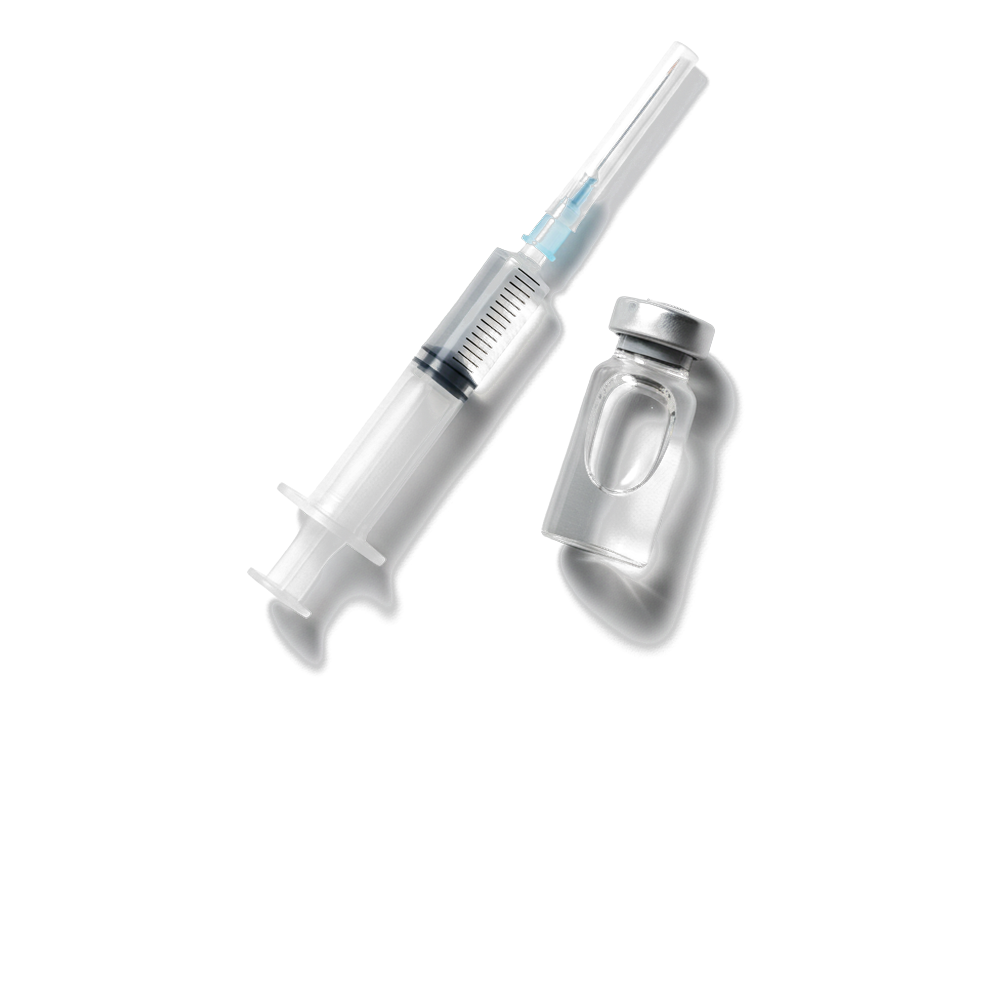
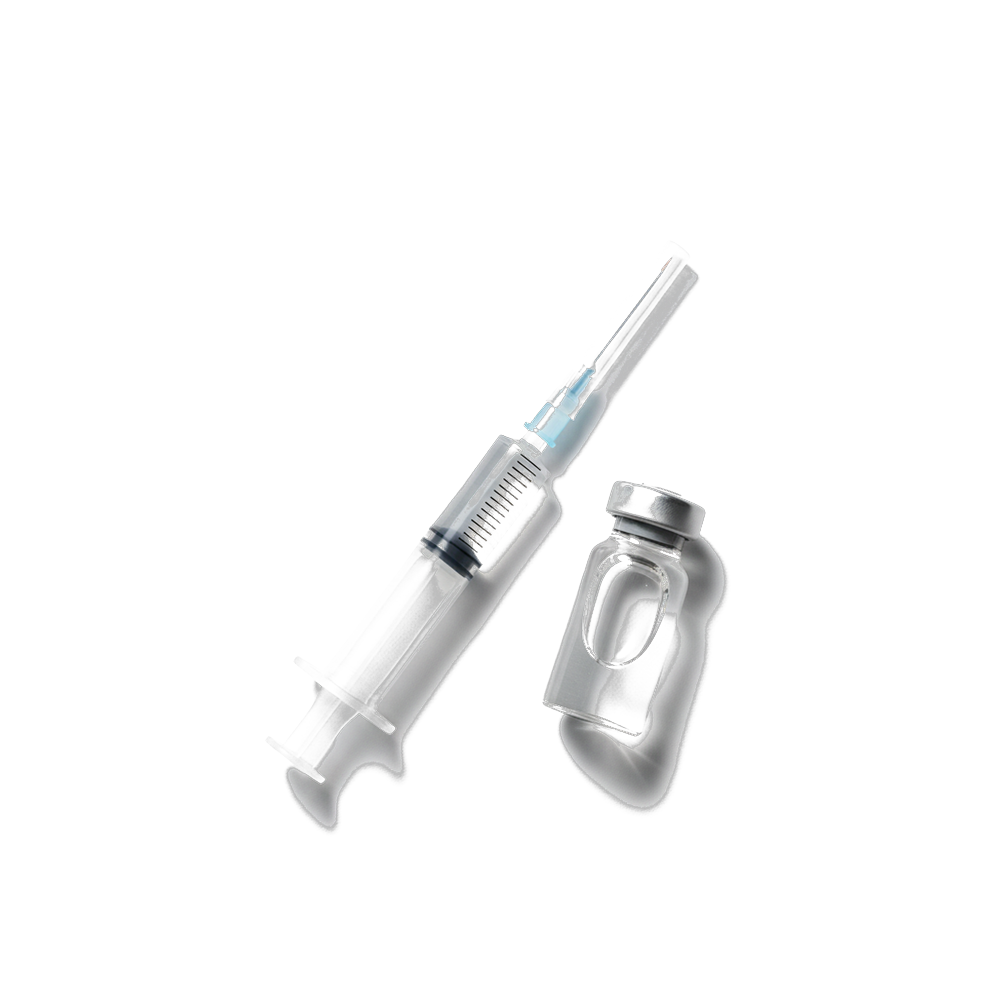
Table polish: original image geometry (16% bottom margin, aligned baselines), bigger sling+surgery images, 'Even Surgery' -> 'Surgery' in table only

Changed region(s): [[0.248, 0.062, 0.744, 0.837]]

diff --git a/index.html b/index.html
@@ -14937,7 +14937,7 @@ html body #nv-dr-intro .nv-dr-collagen-band .nv-dr-inline-figure, html body #nv-
 @media(max-width:768px){#nv-comparison-v3{padding:36px 12px 44px;overflow:hidden}.nv3-headline{font-size:24px;padding:0 8px}.nv3-sub{font-size:14px;margin-bottom:22px;padding:0 8px}.nv3-table-wrap{display:none}.nv3-mobile-compare{display:block;width:100%;max-width:430px;margin:0 auto}.nv3m-card{background:#fff;border:1px solid #d7d7d7;border-radius:8px;margin:0 0 12px;overflow:hidden}.nv3m-title{padding:12px 14px;background:#f7f5f2;border-bottom:1px solid #d7d7d7;font-size:14px;font-weight:800;line-height:1.2;color:#17222e}.nv3m-option{display:grid;grid-template-columns:100px 26px 1fr;align-items:center;gap:8px;padding:11px 12px;border-bottom:1px solid #e1e1e1}.nv3m-option:last-child{border-bottom:0}.nv3m-option-primary{background:#EAF6FD}.nv3m-brand{font-size:11px;font-weight:800;line-height:1.1;color:#17222e}.nv3m-text{font-size:12px;font-weight:700;line-height:1.18;color:#28343a;overflow-wrap:anywhere}.nv3m-mark{width:20px;height:20px;min-width:20px;border-radius:999px;display:inline-flex;align-items:center;justify-content:center;color:#fff;font-size:13px;font-weight:900;line-height:1}.nv3m-ok{background:#052f55}.nv3m-bad{background:#ef4444}}.nv3-mobile-slider{display:none;}
 @media(max-width:768px){#nv-comparison-v3{padding:32px 0 42px;overflow:hidden}.nv3-mobile-title-product{display:block}.nv3-headline{font-size:25px;line-height:1.18;padding:0 18px;margin:0 auto 8px}.nv3-sub{font-size:14px;line-height:1.35;margin:0 auto 18px;padding:0 22px}.nv3-table-wrap,.nv3-mobile-compare{display:none!important}.nv3-mobile-slider{display:block;width:100%;margin:0;color:#17222e;font-family:inherit}.nv3ms-controls{display:flex;align-items:center;justify-content:center;gap:16px;margin:0 auto 16px}.nv3ms-arrow{width:42px;height:42px;border:0;border-radius:999px;background:#fff;color:#17222e;box-shadow:0 2px 10px rgba(0,0,0,.16);font-size:26px;font-weight:900;line-height:1;display:flex;align-items:center;justify-content:center;padding:0;cursor:pointer}.nv3ms-progress{position:relative;width:200px;max-width:48vw;height:7px;border-radius:99px;background:linear-gradient(to right,#e5ded7 0 calc(33.3333% - 1px),#d9cec4 calc(33.3333% - 1px) calc(33.3333% + 1px),#e5ded7 calc(33.3333% + 1px) calc(66.6666% - 1px),#d9cec4 calc(66.6666% - 1px) calc(66.6666% + 1px),#e5ded7 calc(66.6666% + 1px) 100%);overflow:hidden}.nv3ms-progress span{display:block;height:100%;width:33.3333%;border-radius:inherit;background:#073b63;transition:left .22s ease;position:absolute;left:0;top:0}.nv3ms-frame{display:grid;grid-template-columns:166px minmax(0,1fr);align-items:start;width:100%;border-top:1px solid #d6d6d6;border-bottom:1px solid #d6d6d6;background:#fff}.nv3ms-features{background:#fff;border-right:1px solid #d6d6d6}.nv3ms-feature-head{height:48px;border-bottom:1px solid #d6d6d6}.nv3ms-feature{height:59px;display:flex;align-items:center;justify-content:center;text-align:center;padding:0 10px;border-bottom:1px solid #d6d6d6;font-size:14px;font-weight:900;line-height:1.08;color:#17222e}.nv3ms-feature:last-child{border-bottom:0}.nv3ms-products{overflow:hidden;min-width:0}.nv3ms-track{display:flex;width:300%;transform:translateX(0);transition:transform .28s ease}.nv3ms-product-col{width:33.3333%;min-width:33.3333%;background:#fff}.nv3ms-product-col.is-primary{background:#EAF6FD}.nv3ms-product-title{height:48px;display:flex;align-items:center;justify-content:center;text-align:center;padding:0 8px;border-bottom:1px solid #d6d6d6;font-size:15px;font-weight:900;line-height:1.08;color:#17222e}.nv3ms-cell{height:59px;display:flex;align-items:center;justify-content:flex-start;text-align:left;gap:8px;padding:0 10px;border-bottom:1px solid #d6d6d6;font-size:13px;font-weight:800;line-height:1.16;color:#28343a}.nv3ms-cell:last-child{border-bottom:0}.nv3ms-icon{width:20px;height:20px;min-width:20px;border-radius:999px;display:inline-flex;align-items:center;justify-content:center;color:#fff;font-size:13px;font-weight:900;line-height:1}.nv3ms-ok{background:#052f55}.nv3ms-bad{background:#ef4444}.nv3ms-cell span:last-child{display:block;overflow-wrap:anywhere;text-align:left}.nv3ms-product-col.is-primary .nv3ms-product-title{border-top-left-radius:8px;border-top-right-radius:8px}.nv3ms-product-col.is-primary .nv3ms-cell:last-child{border-bottom-left-radius:8px;border-bottom-right-radius:8px}}
 @media(min-width:769px){.nv3-mobile-slider{display:none!important}}
-</style><img class="nv3-mobile-title-product" src="mobileph2.png?v=20260605-0317" alt="Nurovita Comfort Balm"><h2 class="nv3-headline">Why Nothing Else Has Worked</h2><p class="nv3-sub">Here is exactly why the Comfort Balm succeeds where your drawer full of other remedies failed.</p><div class="nv3-table-wrap"><div class="nv3-head-row" aria-hidden="true"><div></div><div class="nv3-head-label nv3-head-label-our"><img class="nv3-head-product" src="proizvod.png" alt="Comfort Balm"><span>Comfort Balm</span></div><div class="nv3-head-label"><img class="nv3-head-product nv3-head-product-small" src="cortisone-hq.png" alt="Cortisone Shots"><span>Cortisone Shots</span></div><div class="nv3-head-label"><img class="nv3-head-product nv3-head-product-small nv3-head-product-pills" src="sling-hq.png" alt="Just Rest It"><span>Just Rest It</span></div><div class="nv3-head-label"><img class="nv3-head-product nv3-head-product-small nv3-head-product-powder" src="surgery-hq.png" alt="Even Surgery"><span>Even Surgery</span></div></div><table class="nv3-compare" aria-label="Comparison of Comfort Balm, Cortisone Shots, Just Rest It, and Even Surgery"><colgroup><col style="width:24%"><col><col><col><col></colgroup><tbody><tr><th class="nv3-feature" scope="row">Reaches the exact ache</th><td><div class="nv3-cell"><span class="nv3-mark nv3-mark-ok">&#10003;</span><span>Rub it right where it hurts</span></div></td><td><div class="nv3-cell"><span class="nv3-mark nv3-mark-bad">&times;</span><span>Numbs the joint, not the injury</span></div></td><td><div class="nv3-cell"><span class="nv3-mark nv3-mark-bad">&times;</span><span>Touches nothing. The ache just waits</span></div></td><td><div class="nv3-cell"><span class="nv3-mark nv3-mark-bad">&times;</span><span>Fixes the tear, not the fraying</span></div></td></tr><tr><th class="nv3-feature" scope="row">A difference that lasts</th><td><div class="nv3-cell"><span class="nv3-mark nv3-mark-ok">&#10003;</span><span>One rub covers the whole night</span></div></td><td><div class="nv3-cell"><span class="nv3-mark nv3-mark-bad">&times;</span><span>Every 90 days, back in that chair</span></div></td><td><div class="nv3-cell"><span class="nv3-mark nv3-mark-bad">&times;</span><span>Stiffer by the month, not better</span></div></td><td><div class="nv3-cell"><span class="nv3-mark nv3-mark-bad">&times;</span><span>Even repaired tendons can tear again</span></div></td></tr><tr><th class="nv3-feature" scope="row">Zero Skin Burn</th><td><div class="nv3-cell"><span class="nv3-mark nv3-mark-ok">&#10003;</span><span>Smooth, cooling, zero capsaicin</span></div></td><td><div class="nv3-cell"><span class="nv3-mark nv3-mark-bad">&times;</span><span>A needle, straight into the joint</span></div></td><td><div class="nv3-cell"><span class="nv3-mark nv3-mark-bad">&times;</span><span>Strap-sore shoulders, day after day</span></div></td><td><div class="nv3-cell"><span class="nv3-mark nv3-mark-bad">&times;</span><span>Incisions, stitches, and scars</span></div></td></tr><tr><th class="nv3-feature" scope="row">Made for Aging Tendons</th><td><div class="nv3-cell"><span class="nv3-mark nv3-mark-ok">&#10003;</span><span>Calms the fraying-tendon stress underneath</span></div></td><td><div class="nv3-cell"><span class="nv3-mark nv3-mark-bad">&times;</span><span>Mutes the alarm, feeds nothing</span></div></td><td><div class="nv3-cell"><span class="nv3-mark nv3-mark-bad">&times;</span><span>Frays on, rested or not</span></div></td><td><div class="nv3-cell"><span class="nv3-mark nv3-mark-bad">&times;</span><span>Built for full tears only</span></div></td></tr><tr><th class="nv3-feature" scope="row">No Mess, No Ritual</th><td><div class="nv3-cell"><span class="nv3-mark nv3-mark-ok">&#10003;</span><span>Dries fast, wash your hands</span></div></td><td><div class="nv3-cell"><span class="nv3-mark nv3-mark-bad">&times;</span><span>Another appointment every few months</span></div></td><td><div class="nv3-cell"><span class="nv3-mark nv3-mark-bad">&times;</span><span>Your whole life on hold</span></div></td><td><div class="nv3-cell"><span class="nv3-mark nv3-mark-bad">&times;</span><span>Months of PT, slings, and follow-ups</span></div></td></tr><tr><th class="nv3-feature" scope="row">The 90-Day Guarantee</th><td><div class="nv3-cell"><span class="nv3-mark nv3-mark-ok">&#10003;</span><span>90 days, even if the jar is empty</span></div></td><td><div class="nv3-cell"><span class="nv3-mark nv3-mark-bad">&times;</span><span>No refunds at the clinic</span></div></td><td><div class="nv3-cell"><span class="nv3-mark nv3-mark-bad">&times;</span><span>No refund on the months you lost</span></div></td><td><div class="nv3-cell"><span class="nv3-mark nv3-mark-bad">&times;</span><span>No refunds on the operation</span></div></td></tr></tbody></table></div><div class="nv3-mobile-slider" data-nv3-slider><div class="nv3ms-controls"><button class="nv3ms-arrow nv3ms-prev" type="button" aria-label="Previous comparison">&lsaquo;</button><div class="nv3ms-progress" aria-hidden="true"><span></span></div><button class="nv3ms-arrow nv3ms-next" type="button" aria-label="Next comparison">&rsaquo;</button></div><div class="nv3ms-frame"><div class="nv3ms-features"><div class="nv3ms-feature-head"></div><div class="nv3ms-feature">Reaches the exact ache</div><div class="nv3ms-feature">A difference that lasts</div><div class="nv3ms-feature">Zero Skin Burn</div><div class="nv3ms-feature">Made for Aging Tendons</div><div class="nv3ms-feature">No Mess, No Ritual</div><div class="nv3ms-feature">The 90-Day Guarantee</div></div><div class="nv3ms-products"><div class="nv3ms-track"><div class="nv3ms-product-col is-primary"><div class="nv3ms-product-title">Comfort Balm</div><div class="nv3ms-cell"><span class="nv3ms-icon nv3ms-ok">&#10003;</span><span>Rub it right where it hurts</span></div><div class="nv3ms-cell"><span class="nv3ms-icon nv3ms-ok">&#10003;</span><span>One rub covers the whole night</span></div><div class="nv3ms-cell"><span class="nv3ms-icon nv3ms-ok">&#10003;</span><span>Smooth, cooling, zero capsaicin</span></div><div class="nv3ms-cell"><span class="nv3ms-icon nv3ms-ok">&#10003;</span><span>Calms the fraying-tendon stress underneath</span></div><div class="nv3ms-cell"><span class="nv3ms-icon nv3ms-ok">&#10003;</span><span>Dries fast, wash your hands</span></div><div class="nv3ms-cell"><span class="nv3ms-icon nv3ms-ok">&#10003;</span><span>90 days, even if the jar is empty</span></div></div><div class="nv3ms-product-col"><div class="nv3ms-product-title">Cortisone Shots</div><div class="nv3ms-cell"><span class="nv3ms-icon nv3ms-bad">&times;</span><span>Numbs the joint, not the injury</span></div><div class="nv3ms-cell"><span class="nv3ms-icon nv3ms-bad">&times;</span><span>Every 90 days, back in that chair</span></div><div class="nv3ms-cell"><span class="nv3ms-icon nv3ms-bad">&times;</span><span>A needle, straight into the joint</span></div><div class="nv3ms-cell"><span class="nv3ms-icon nv3ms-bad">&times;</span><span>Mutes the alarm, feeds nothing</span></div><div class="nv3ms-cell"><span class="nv3ms-icon nv3ms-bad">&times;</span><span>Another appointment every few months</span></div><div class="nv3ms-cell"><span class="nv3ms-icon nv3ms-bad">&times;</span><span>No refunds at the clinic</span></div></div><div class="nv3ms-product-col"><div class="nv3ms-product-title">Just Rest It</div><div class="nv3ms-cell"><span class="nv3ms-icon nv3ms-bad">&times;</span><span>Touches nothing. The ache just waits</span></div><div class="nv3ms-cell"><span class="nv3ms-icon nv3ms-bad">&times;</span><span>Stiffer by the month, not better</span></div><div class="nv3ms-cell"><span class="nv3ms-icon nv3ms-bad">&times;</span><span>Strap-sore shoulders, day after day</span></div><div class="nv3ms-cell"><span class="nv3ms-icon nv3ms-bad">&times;</span><span>Frays on, rested or not</span></div><div class="nv3ms-cell"><span class="nv3ms-icon nv3ms-bad">&times;</span><span>Your whole life on hold</span></div><div class="nv3ms-cell"><span class="nv3ms-icon nv3ms-bad">&times;</span><span>No refund on the months you lost</span></div></div><div class="nv3ms-product-col"><div class="nv3ms-product-title">Even Surgery</div><div class="nv3ms-cell"><span class="nv3ms-icon nv3ms-bad">&times;</span><span>Fixes the tear, not the fraying</span></div><div class="nv3ms-cell"><span class="nv3ms-icon nv3ms-bad">&times;</span><span>Even repaired tendons can tear again</span></div><div class="nv3ms-cell"><span class="nv3ms-icon nv3ms-bad">&times;</span><span>Incisions, stitches, and scars</span></div><div class="nv3ms-cell"><span class="nv3ms-icon nv3ms-bad">&times;</span><span>Built for full tears only</span></div><div class="nv3ms-cell"><span class="nv3ms-icon nv3ms-bad">&times;</span><span>Months of PT, slings, and follow-ups</span></div><div class="nv3ms-cell"><span class="nv3ms-icon nv3ms-bad">&times;</span><span>No refunds on the operation</span></div></div></div></div></div></div>
+</style><img class="nv3-mobile-title-product" src="mobileph2.png?v=20260605-0317" alt="Nurovita Comfort Balm"><h2 class="nv3-headline">Why Nothing Else Has Worked</h2><p class="nv3-sub">Here is exactly why the Comfort Balm succeeds where your drawer full of other remedies failed.</p><div class="nv3-table-wrap"><div class="nv3-head-row" aria-hidden="true"><div></div><div class="nv3-head-label nv3-head-label-our"><img class="nv3-head-product" src="proizvod.png" alt="Comfort Balm"><span>Comfort Balm</span></div><div class="nv3-head-label"><img class="nv3-head-product nv3-head-product-small" src="cortisone-hq.png" alt="Cortisone Shots"><span>Cortisone Shots</span></div><div class="nv3-head-label"><img class="nv3-head-product nv3-head-product-small nv3-head-product-pills" src="sling-hq.png" alt="Just Rest It"><span>Just Rest It</span></div><div class="nv3-head-label"><img class="nv3-head-product nv3-head-product-small nv3-head-product-powder" src="surgery-hq.png" alt="Surgery"><span>Surgery</span></div></div><table class="nv3-compare" aria-label="Comparison of Comfort Balm, Cortisone Shots, Just Rest It, and Surgery"><colgroup><col style="width:24%"><col><col><col><col></colgroup><tbody><tr><th class="nv3-feature" scope="row">Reaches the exact ache</th><td><div class="nv3-cell"><span class="nv3-mark nv3-mark-ok">&#10003;</span><span>Rub it right where it hurts</span></div></td><td><div class="nv3-cell"><span class="nv3-mark nv3-mark-bad">&times;</span><span>Numbs the joint, not the injury</span></div></td><td><div class="nv3-cell"><span class="nv3-mark nv3-mark-bad">&times;</span><span>Touches nothing. The ache just waits</span></div></td><td><div class="nv3-cell"><span class="nv3-mark nv3-mark-bad">&times;</span><span>Fixes the tear, not the fraying</span></div></td></tr><tr><th class="nv3-feature" scope="row">A difference that lasts</th><td><div class="nv3-cell"><span class="nv3-mark nv3-mark-ok">&#10003;</span><span>One rub covers the whole night</span></div></td><td><div class="nv3-cell"><span class="nv3-mark nv3-mark-bad">&times;</span><span>Every 90 days, back in that chair</span></div></td><td><div class="nv3-cell"><span class="nv3-mark nv3-mark-bad">&times;</span><span>Stiffer by the month, not better</span></div></td><td><div class="nv3-cell"><span class="nv3-mark nv3-mark-bad">&times;</span><span>Even repaired tendons can tear again</span></div></td></tr><tr><th class="nv3-feature" scope="row">Zero Skin Burn</th><td><div class="nv3-cell"><span class="nv3-mark nv3-mark-ok">&#10003;</span><span>Smooth, cooling, zero capsaicin</span></div></td><td><div class="nv3-cell"><span class="nv3-mark nv3-mark-bad">&times;</span><span>A needle, straight into the joint</span></div></td><td><div class="nv3-cell"><span class="nv3-mark nv3-mark-bad">&times;</span><span>Strap-sore shoulders, day after day</span></div></td><td><div class="nv3-cell"><span class="nv3-mark nv3-mark-bad">&times;</span><span>Incisions, stitches, and scars</span></div></td></tr><tr><th class="nv3-feature" scope="row">Made for Aging Tendons</th><td><div class="nv3-cell"><span class="nv3-mark nv3-mark-ok">&#10003;</span><span>Calms the fraying-tendon stress underneath</span></div></td><td><div class="nv3-cell"><span class="nv3-mark nv3-mark-bad">&times;</span><span>Mutes the alarm, feeds nothing</span></div></td><td><div class="nv3-cell"><span class="nv3-mark nv3-mark-bad">&times;</span><span>Frays on, rested or not</span></div></td><td><div class="nv3-cell"><span class="nv3-mark nv3-mark-bad">&times;</span><span>Built for full tears only</span></div></td></tr><tr><th class="nv3-feature" scope="row">No Mess, No Ritual</th><td><div class="nv3-cell"><span class="nv3-mark nv3-mark-ok">&#10003;</span><span>Dries fast, wash your hands</span></div></td><td><div class="nv3-cell"><span class="nv3-mark nv3-mark-bad">&times;</span><span>Another appointment every few months</span></div></td><td><div class="nv3-cell"><span class="nv3-mark nv3-mark-bad">&times;</span><span>Your whole life on hold</span></div></td><td><div class="nv3-cell"><span class="nv3-mark nv3-mark-bad">&times;</span><span>Months of PT, slings, and follow-ups</span></div></td></tr><tr><th class="nv3-feature" scope="row">The 90-Day Guarantee</th><td><div class="nv3-cell"><span class="nv3-mark nv3-mark-ok">&#10003;</span><span>90 days, even if the jar is empty</span></div></td><td><div class="nv3-cell"><span class="nv3-mark nv3-mark-bad">&times;</span><span>No refunds at the clinic</span></div></td><td><div class="nv3-cell"><span class="nv3-mark nv3-mark-bad">&times;</span><span>No refund on the months you lost</span></div></td><td><div class="nv3-cell"><span class="nv3-mark nv3-mark-bad">&times;</span><span>No refunds on the operation</span></div></td></tr></tbody></table></div><div class="nv3-mobile-slider" data-nv3-slider><div class="nv3ms-controls"><button class="nv3ms-arrow nv3ms-prev" type="button" aria-label="Previous comparison">&lsaquo;</button><div class="nv3ms-progress" aria-hidden="true"><span></span></div><button class="nv3ms-arrow nv3ms-next" type="button" aria-label="Next comparison">&rsaquo;</button></div><div class="nv3ms-frame"><div class="nv3ms-features"><div class="nv3ms-feature-head"></div><div class="nv3ms-feature">Reaches the exact ache</div><div class="nv3ms-feature">A difference that lasts</div><div class="nv3ms-feature">Zero Skin Burn</div><div class="nv3ms-feature">Made for Aging Tendons</div><div class="nv3ms-feature">No Mess, No Ritual</div><div class="nv3ms-feature">The 90-Day Guarantee</div></div><div class="nv3ms-products"><div class="nv3ms-track"><div class="nv3ms-product-col is-primary"><div class="nv3ms-product-title">Comfort Balm</div><div class="nv3ms-cell"><span class="nv3ms-icon nv3ms-ok">&#10003;</span><span>Rub it right where it hurts</span></div><div class="nv3ms-cell"><span class="nv3ms-icon nv3ms-ok">&#10003;</span><span>One rub covers the whole night</span></div><div class="nv3ms-cell"><span class="nv3ms-icon nv3ms-ok">&#10003;</span><span>Smooth, cooling, zero capsaicin</span></div><div class="nv3ms-cell"><span class="nv3ms-icon nv3ms-ok">&#10003;</span><span>Calms the fraying-tendon stress underneath</span></div><div class="nv3ms-cell"><span class="nv3ms-icon nv3ms-ok">&#10003;</span><span>Dries fast, wash your hands</span></div><div class="nv3ms-cell"><span class="nv3ms-icon nv3ms-ok">&#10003;</span><span>90 days, even if the jar is empty</span></div></div><div class="nv3ms-product-col"><div class="nv3ms-product-title">Cortisone Shots</div><div class="nv3ms-cell"><span class="nv3ms-icon nv3ms-bad">&times;</span><span>Numbs the joint, not the injury</span></div><div class="nv3ms-cell"><span class="nv3ms-icon nv3ms-bad">&times;</span><span>Every 90 days, back in that chair</span></div><div class="nv3ms-cell"><span class="nv3ms-icon nv3ms-bad">&times;</span><span>A needle, straight into the joint</span></div><div class="nv3ms-cell"><span class="nv3ms-icon nv3ms-bad">&times;</span><span>Mutes the alarm, feeds nothing</span></div><div class="nv3ms-cell"><span class="nv3ms-icon nv3ms-bad">&times;</span><span>Another appointment every few months</span></div><div class="nv3ms-cell"><span class="nv3ms-icon nv3ms-bad">&times;</span><span>No refunds at the clinic</span></div></div><div class="nv3ms-product-col"><div class="nv3ms-product-title">Just Rest It</div><div class="nv3ms-cell"><span class="nv3ms-icon nv3ms-bad">&times;</span><span>Touches nothing. The ache just waits</span></div><div class="nv3ms-cell"><span class="nv3ms-icon nv3ms-bad">&times;</span><span>Stiffer by the month, not better</span></div><div class="nv3ms-cell"><span class="nv3ms-icon nv3ms-bad">&times;</span><span>Strap-sore shoulders, day after day</span></div><div class="nv3ms-cell"><span class="nv3ms-icon nv3ms-bad">&times;</span><span>Frays on, rested or not</span></div><div class="nv3ms-cell"><span class="nv3ms-icon nv3ms-bad">&times;</span><span>Your whole life on hold</span></div><div class="nv3ms-cell"><span class="nv3ms-icon nv3ms-bad">&times;</span><span>No refund on the months you lost</span></div></div><div class="nv3ms-product-col"><div class="nv3ms-product-title">Surgery</div><div class="nv3ms-cell"><span class="nv3ms-icon nv3ms-bad">&times;</span><span>Fixes the tear, not the fraying</span></div><div class="nv3ms-cell"><span class="nv3ms-icon nv3ms-bad">&times;</span><span>Even repaired tendons can tear again</span></div><div class="nv3ms-cell"><span class="nv3ms-icon nv3ms-bad">&times;</span><span>Incisions, stitches, and scars</span></div><div class="nv3ms-cell"><span class="nv3ms-icon nv3ms-bad">&times;</span><span>Built for full tears only</span></div><div class="nv3ms-cell"><span class="nv3ms-icon nv3ms-bad">&times;</span><span>Months of PT, slings, and follow-ups</span></div><div class="nv3ms-cell"><span class="nv3ms-icon nv3ms-bad">&times;</span><span>No refunds on the operation</span></div></div></div></div></div></div>
 
 <div class="nv-comparison-natural-cta-slot"><div data-box="true" style="padding-right: 10px; padding-left: 10px; width: 100%;" id="cc-id-CD2wMx7rTNW9"><div data-box="true" style="padding: 12px 10px; width: 100%;" id="cc-id-K5Qliy8QeO9w"><div data-box="true" style="padding: 12px 10px; width: 100%;" id="cc-id-QQmLafA699bj"><a data-id="cc-id-SzcDmKi4rced" title="See Your Feet Come Back - Order Now!" target="_self" action="none" align="center" animate="" speed="" delay="none" loop="none" data-secondsdelay="" data-minutesdelay="" replaceproductid="" billnow="false" quantity="" price="" id="cc-id-jYGOlGLIyyks" variantvalue="" offer="" upsell="" class="ease" href="#nv-page-top">CLAIM MY DISCOUNT &rarr;<br class="rte-styled-text" id="cc-id-ETYdfX5chFnF"></a><div style="padding: 0px; text-align: center;" id="cc-id-wwbSWozU4Afb"><div class="nv-urgency-timer" aria-live="polite" id="cc-id-tSVloMmDep4v"><span class="nv-urgency-clock" aria-hidden="true"><span class="nv-urgency-hand"></span></span><span class="nv-urgency-copy">SAVE UP TO 67%</span><span class="nv-urgency-separator" aria-hidden="true">&bull;</span><span class="nv-countdown-time">45:00</span></div></div></div></div></div></div></section><div data-box="true" style="padding-right: 10px; padding-left: 10px; width: 100%;" id="cc-id-AedI00KW7p5i" data-element-absolute="true"><div data-box="true" data-secondsdelay="" id="cc-id-RXMfmwnI9NgO" class="contained"><div data-text="text" data-secondsdelay="" id="cc-id-ZEcXqQvCTi6x" data-element-absolute="" style=""><div class="rte-styled-text" id="cc-id-D5shD90nOyhF"><span class="font-000000FF cc-rte-styled rte-styled-text" id="cc-id-NiVEqYppvq2i">Don't Just Take Our Word For It...</span><br class="rte-styled-text" id="cc-id-1Yjk9JhHVw09"></div></div></div><style id="nv-comments-masonry-style">
 .nv-comments-masonry{max-width:1060px;margin:0 auto;columns:2;column-gap:14px;padding:0 16px}
@@ -15754,11 +15754,11 @@ html body #nv-dr-intro .nv-dr-collagen-band .nv-dr-inline-figure, html body #nv-
         compHTML += '<img class="nv3-mobile-title-product" src="mobileph2.png?v=20260605-0317" alt="Nurovita Comfort Balm">';
         compHTML += '<h2 class="nv3-headline">Why Nothing Else Has Worked</h2>';
         compHTML += '<p class="nv3-sub">Here is exactly why the Comfort Balm succeeds where your drawer full of other remedies failed.</p>';
-        compHTML += '<div class="nv3-table-wrap"><div class="nv3-head-row" aria-hidden="true"><div></div><div class="nv3-head-label nv3-head-label-our"><img class="nv3-head-product" src="proizvod.png" alt="Comfort Balm"><span>Comfort Balm</span></div><div class="nv3-head-label"><img class="nv3-head-product nv3-head-product-small" src="cortisone-hq.png" alt="Cortisone Shots"><span>Cortisone Shots</span></div><div class="nv3-head-label"><img class="nv3-head-product nv3-head-product-small nv3-head-product-pills" src="sling-hq.png" alt="Just Rest It"><span>Just Rest It</span></div><div class="nv3-head-label"><img class="nv3-head-product nv3-head-product-small nv3-head-product-powder" src="surgery-hq.png" alt="Even Surgery"><span>Even Surgery</span></div></div><table class="nv3-compare" aria-label="Comparison of Comfort Balm, Cortisone Shots, Just Rest It, and Even Surgery"><colgroup><col style="width:24%"><col><col><col><col></colgroup>';
+        compHTML += '<div class="nv3-table-wrap"><div class="nv3-head-row" aria-hidden="true"><div></div><div class="nv3-head-label nv3-head-label-our"><img class="nv3-head-product" src="proizvod.png" alt="Comfort Balm"><span>Comfort Balm</span></div><div class="nv3-head-label"><img class="nv3-head-product nv3-head-product-small" src="cortisone-hq.png" alt="Cortisone Shots"><span>Cortisone Shots</span></div><div class="nv3-head-label"><img class="nv3-head-product nv3-head-product-small nv3-head-product-pills" src="sling-hq.png" alt="Just Rest It"><span>Just Rest It</span></div><div class="nv3-head-label"><img class="nv3-head-product nv3-head-product-small nv3-head-product-powder" src="surgery-hq.png" alt="Surgery"><span>Surgery</span></div></div><table class="nv3-compare" aria-label="Comparison of Comfort Balm, Cortisone Shots, Just Rest It, and Surgery"><colgroup><col style="width:24%"><col><col><col><col></colgroup>';
         
         compHTML += '<tbody>' + compBody + '</tbody></table></div>';
         compHTML += '<div class=\'nv3-mobile-compare\'><div class=\'nv3m-card\'><div class=\'nv3m-title\'>Gets Actives In</div><div class=\'nv3m-option nv3m-option-primary\'><div class=\'nv3m-brand\'>Cooling Roller</div><span class=\'nv3m-mark nv3m-ok\'>&#10003;</span><div class=\'nv3m-text\'>Works where you roll</div></div><div class=\'nv3m-option\'><div class=\'nv3m-brand\'>Magic Oils</div><span class=\'nv3m-mark nv3m-bad\'>&mdash;</span><div class=\'nv3m-text\'>Sits on top</div></div><div class=\'nv3m-option\'><div class=\'nv3m-brand\'>Miracle Creams</div><span class=\'nv3m-mark nv3m-bad\'>&mdash;</span><div class=\'nv3m-text\'>Just coats the surface</div></div></div><div class=\'nv3m-card\'><div class=\'nv3m-title\'>Clean Skin Feel</div><div class=\'nv3m-option nv3m-option-primary\'><div class=\'nv3m-brand\'>Cooling Roller</div><span class=\'nv3m-mark nv3m-ok\'>&#10003;</span><div class=\'nv3m-text\'>100% natural</div></div><div class=\'nv3m-option\'><div class=\'nv3m-brand\'>Magic Oils</div><span class=\'nv3m-mark nv3m-bad\'>&mdash;</span><div class=\'nv3m-text\'>Greasy, messy finish</div></div><div class=\'nv3m-option\'><div class=\'nv3m-brand\'>Miracle Creams</div><span class=\'nv3m-mark nv3m-bad\'>&mdash;</span><div class=\'nv3m-text\'>Gummy, thick texture</div></div></div><div class=\'nv3m-card\'><div class=\'nv3m-title\'>Easy To Apply</div><div class=\'nv3m-option nv3m-option-primary\'><div class=\'nv3m-brand\'>Cooling Roller</div><span class=\'nv3m-mark nv3m-ok\'>&#10003;</span><div class=\'nv3m-text\'>Hold & roll &mdash; done</div></div><div class=\'nv3m-option\'><div class=\'nv3m-brand\'>Magic Oils</div><span class=\'nv3m-mark nv3m-bad\'>&mdash;</span><div class=\'nv3m-text\'>Hard to absorb</div></div><div class=\'nv3m-option\'><div class=\'nv3m-brand\'>Miracle Creams</div><span class=\'nv3m-mark nv3m-bad\'>&mdash;</span><div class=\'nv3m-text\'>Just another lotion</div></div></div><div class=\'nv3m-card\'><div class=\'nv3m-title\'>Enjoyable to Use</div><div class=\'nv3m-option nv3m-option-primary\'><div class=\'nv3m-brand\'>Cooling Roller</div><span class=\'nv3m-mark nv3m-ok\'>&#10003;</span><div class=\'nv3m-text\'>Feels like a massage</div></div><div class=\'nv3m-option\'><div class=\'nv3m-brand\'>Magic Oils</div><span class=\'nv3m-mark nv3m-bad\'>&mdash;</span><div class=\'nv3m-text\'>Sticky under clothes</div></div><div class=\'nv3m-option\'><div class=\'nv3m-brand\'>Miracle Creams</div><span class=\'nv3m-mark nv3m-bad\'>&mdash;</span><div class=\'nv3m-text\'>Fragrance lingers</div></div></div><div class=\'nv3m-card\'><div class=\'nv3m-title\'>Won\'t Ruin Your Sleep</div><div class=\'nv3m-option nv3m-option-primary\'><div class=\'nv3m-brand\'>Cooling Roller</div><span class=\'nv3m-mark nv3m-ok\'>&#10003;</span><div class=\'nv3m-text\'>5 min before bed, done</div></div><div class=\'nv3m-option\'><div class=\'nv3m-brand\'>Magic Oils</div><span class=\'nv3m-mark nv3m-bad\'>&mdash;</span><div class=\'nv3m-text\'>Transfers to sheets</div></div><div class=\'nv3m-option\'><div class=\'nv3m-brand\'>Miracle Creams</div><span class=\'nv3m-mark nv3m-bad\'>&mdash;</span><div class=\'nv3m-text\'>Uncomfortable at bedtime</div></div></div><div class=\'nv3m-card\'><div class=\'nv3m-title\'>No Greasy Routine</div><div class=\'nv3m-option nv3m-option-primary\'><div class=\'nv3m-brand\'>Cooling Roller</div><span class=\'nv3m-mark nv3m-ok\'>&#10003;</span><div class=\'nv3m-text\'>Works with your body</div></div><div class=\'nv3m-option\'><div class=\'nv3m-brand\'>Magic Oils</div><span class=\'nv3m-mark nv3m-bad\'>&mdash;</span><div class=\'nv3m-text\'>Messy every time</div></div><div class=\'nv3m-option\'><div class=\'nv3m-brand\'>Miracle Creams</div><span class=\'nv3m-mark nv3m-bad\'>&mdash;</span><div class=\'nv3m-text\'>Texture looks unchanged</div></div></div><div class=\'nv3m-card\'><div class=\'nv3m-title\'>Money Back Guarantee</div><div class=\'nv3m-option nv3m-option-primary\'><div class=\'nv3m-brand\'>Cooling Roller</div><span class=\'nv3m-mark nv3m-ok\'>&#10003;</span><div class=\'nv3m-text\'>90 Days &mdash; No Questions Asked</div></div><div class=\'nv3m-option\'><div class=\'nv3m-brand\'>Magic Oils</div><span class=\'nv3m-mark nv3m-bad\'>&mdash;</span><div class=\'nv3m-text\'>Can\'t return once worn</div></div><div class=\'nv3m-option\'><div class=\'nv3m-brand\'>Miracle Creams</div><span class=\'nv3m-mark nv3m-bad\'>&mdash;</span><div class=\'nv3m-text\'>Rarely guaranteed on results</div></div></div></div>';
-        compHTML += '<div class="nv3-mobile-slider" data-nv3-slider><div class="nv3ms-controls"><button class="nv3ms-arrow nv3ms-prev" type="button" aria-label="Previous comparison">&lsaquo;</button><div class="nv3ms-progress" aria-hidden="true"><span></span></div><button class="nv3ms-arrow nv3ms-next" type="button" aria-label="Next comparison">&rsaquo;</button></div><div class="nv3ms-frame"><div class="nv3ms-features"><div class="nv3ms-feature-head"></div><div class="nv3ms-feature">Gets Actives In</div><div class="nv3ms-feature">Clean Skin Feel</div><div class="nv3ms-feature">Easy To Apply</div><div class="nv3ms-feature">Enjoyable to Use</div><div class="nv3ms-feature">Clean Enough For Bed</div><div class="nv3ms-feature">No Greasy Routine</div><div class="nv3ms-feature">Money Back Guarantee</div></div><div class="nv3ms-products"><div class="nv3ms-track"><div class="nv3ms-product-col is-primary"><div class="nv3ms-product-title">Cooling Roller</div><div class="nv3ms-cell"><span class="nv3ms-icon nv3ms-ok">&#10003;</span><span>Works where you roll</span></div><div class="nv3ms-cell"><span class="nv3ms-icon nv3ms-ok">&#10003;</span><span>100% natural</span></div><div class="nv3ms-cell"><span class="nv3ms-icon nv3ms-ok">&#10003;</span><span>Hold &amp; roll &mdash; done</span></div><div class="nv3ms-cell"><span class="nv3ms-icon nv3ms-ok">&#10003;</span><span>Feels like a massage</span></div><div class="nv3ms-cell"><span class="nv3ms-icon nv3ms-ok">&#10003;</span><span>5 min before bed, done</span></div><div class="nv3ms-cell"><span class="nv3ms-icon nv3ms-ok">&#10003;</span><span>Works with your body</span></div><div class="nv3ms-cell"><span class="nv3ms-icon nv3ms-ok">&#10003;</span><span>90 Days &mdash; No Questions Asked</span></div></div><div class="nv3ms-product-col"><div class="nv3ms-product-title">Magic Oils</div><div class="nv3ms-cell"><span class="nv3ms-icon nv3ms-bad">&times;</span><span>Sits on top</span></div><div class="nv3ms-cell"><span class="nv3ms-icon nv3ms-bad">&times;</span><span>Greasy, messy finish</span></div><div class="nv3ms-cell"><span class="nv3ms-icon nv3ms-bad">&times;</span><span>Hard to absorb</span></div><div class="nv3ms-cell"><span class="nv3ms-icon nv3ms-bad">&times;</span><span>Sticky under clothes</span></div><div class="nv3ms-cell"><span class="nv3ms-icon nv3ms-bad">&times;</span><span>Transfers to sheets</span></div><div class="nv3ms-cell"><span class="nv3ms-icon nv3ms-bad">&times;</span><span>Messy every time</span></div><div class="nv3ms-cell"><span class="nv3ms-icon nv3ms-bad">&times;</span><span>Can&#39;t return once worn</span></div></div><div class="nv3ms-product-col"><div class="nv3ms-product-title">Miracle Creams</div><div class="nv3ms-cell"><span class="nv3ms-icon nv3ms-bad">&times;</span><span>Just coats the surface</span></div><div class="nv3ms-cell"><span class="nv3ms-icon nv3ms-bad">&times;</span><span>Gummy, thick texture</span></div><div class="nv3ms-cell"><span class="nv3ms-icon nv3ms-bad">&times;</span><span>Just another lotion</span></div><div class="nv3ms-cell"><span class="nv3ms-icon nv3ms-bad">&times;</span><span>Fragrance lingers</span></div><div class="nv3ms-cell"><span class="nv3ms-icon nv3ms-bad">&times;</span><span>Uncomfortable at bedtime</span></div><div class="nv3ms-cell"><span class="nv3ms-icon nv3ms-bad">&times;</span><span>Texture looks unchanged</span></div><div class="nv3ms-cell"><span class="nv3ms-icon nv3ms-bad">&times;</span><span>Rarely guaranteed on results</span></div></div><div class="nv3ms-product-col"><div class="nv3ms-product-title">Even Surgery</div><div class="nv3ms-cell"><span class="nv3ms-icon nv3ms-bad">&times;</span><span>Digestion breaks them down</span></div><div class="nv3ms-cell"><span class="nv3ms-icon nv3ms-bad">&times;</span><span>Can interact with medications</span></div><div class="nv3ms-cell"><span class="nv3ms-icon nv3ms-bad">&times;</span><span>Easy to forget daily</span></div><div class="nv3ms-cell"><span class="nv3ms-icon nv3ms-bad">&times;</span><span>Another pill to swallow</span></div><div class="nv3ms-cell"><span class="nv3ms-icon nv3ms-bad">&times;</span><span>May upset your stomach</span></div><div class="nv3ms-cell"><span class="nv3ms-icon nv3ms-bad">&times;</span><span>Weeks before you feel anything &mdash; if ever</span></div><div class="nv3ms-cell"><span class="nv3ms-icon nv3ms-bad">&times;</span><span>Rarely guaranteed</span></div></div></div></div></div></div>';
+        compHTML += '<div class="nv3-mobile-slider" data-nv3-slider><div class="nv3ms-controls"><button class="nv3ms-arrow nv3ms-prev" type="button" aria-label="Previous comparison">&lsaquo;</button><div class="nv3ms-progress" aria-hidden="true"><span></span></div><button class="nv3ms-arrow nv3ms-next" type="button" aria-label="Next comparison">&rsaquo;</button></div><div class="nv3ms-frame"><div class="nv3ms-features"><div class="nv3ms-feature-head"></div><div class="nv3ms-feature">Gets Actives In</div><div class="nv3ms-feature">Clean Skin Feel</div><div class="nv3ms-feature">Easy To Apply</div><div class="nv3ms-feature">Enjoyable to Use</div><div class="nv3ms-feature">Clean Enough For Bed</div><div class="nv3ms-feature">No Greasy Routine</div><div class="nv3ms-feature">Money Back Guarantee</div></div><div class="nv3ms-products"><div class="nv3ms-track"><div class="nv3ms-product-col is-primary"><div class="nv3ms-product-title">Cooling Roller</div><div class="nv3ms-cell"><span class="nv3ms-icon nv3ms-ok">&#10003;</span><span>Works where you roll</span></div><div class="nv3ms-cell"><span class="nv3ms-icon nv3ms-ok">&#10003;</span><span>100% natural</span></div><div class="nv3ms-cell"><span class="nv3ms-icon nv3ms-ok">&#10003;</span><span>Hold &amp; roll &mdash; done</span></div><div class="nv3ms-cell"><span class="nv3ms-icon nv3ms-ok">&#10003;</span><span>Feels like a massage</span></div><div class="nv3ms-cell"><span class="nv3ms-icon nv3ms-ok">&#10003;</span><span>5 min before bed, done</span></div><div class="nv3ms-cell"><span class="nv3ms-icon nv3ms-ok">&#10003;</span><span>Works with your body</span></div><div class="nv3ms-cell"><span class="nv3ms-icon nv3ms-ok">&#10003;</span><span>90 Days &mdash; No Questions Asked</span></div></div><div class="nv3ms-product-col"><div class="nv3ms-product-title">Magic Oils</div><div class="nv3ms-cell"><span class="nv3ms-icon nv3ms-bad">&times;</span><span>Sits on top</span></div><div class="nv3ms-cell"><span class="nv3ms-icon nv3ms-bad">&times;</span><span>Greasy, messy finish</span></div><div class="nv3ms-cell"><span class="nv3ms-icon nv3ms-bad">&times;</span><span>Hard to absorb</span></div><div class="nv3ms-cell"><span class="nv3ms-icon nv3ms-bad">&times;</span><span>Sticky under clothes</span></div><div class="nv3ms-cell"><span class="nv3ms-icon nv3ms-bad">&times;</span><span>Transfers to sheets</span></div><div class="nv3ms-cell"><span class="nv3ms-icon nv3ms-bad">&times;</span><span>Messy every time</span></div><div class="nv3ms-cell"><span class="nv3ms-icon nv3ms-bad">&times;</span><span>Can&#39;t return once worn</span></div></div><div class="nv3ms-product-col"><div class="nv3ms-product-title">Miracle Creams</div><div class="nv3ms-cell"><span class="nv3ms-icon nv3ms-bad">&times;</span><span>Just coats the surface</span></div><div class="nv3ms-cell"><span class="nv3ms-icon nv3ms-bad">&times;</span><span>Gummy, thick texture</span></div><div class="nv3ms-cell"><span class="nv3ms-icon nv3ms-bad">&times;</span><span>Just another lotion</span></div><div class="nv3ms-cell"><span class="nv3ms-icon nv3ms-bad">&times;</span><span>Fragrance lingers</span></div><div class="nv3ms-cell"><span class="nv3ms-icon nv3ms-bad">&times;</span><span>Uncomfortable at bedtime</span></div><div class="nv3ms-cell"><span class="nv3ms-icon nv3ms-bad">&times;</span><span>Texture looks unchanged</span></div><div class="nv3ms-cell"><span class="nv3ms-icon nv3ms-bad">&times;</span><span>Rarely guaranteed on results</span></div></div><div class="nv3ms-product-col"><div class="nv3ms-product-title">Surgery</div><div class="nv3ms-cell"><span class="nv3ms-icon nv3ms-bad">&times;</span><span>Digestion breaks them down</span></div><div class="nv3ms-cell"><span class="nv3ms-icon nv3ms-bad">&times;</span><span>Can interact with medications</span></div><div class="nv3ms-cell"><span class="nv3ms-icon nv3ms-bad">&times;</span><span>Easy to forget daily</span></div><div class="nv3ms-cell"><span class="nv3ms-icon nv3ms-bad">&times;</span><span>Another pill to swallow</span></div><div class="nv3ms-cell"><span class="nv3ms-icon nv3ms-bad">&times;</span><span>May upset your stomach</span></div><div class="nv3ms-cell"><span class="nv3ms-icon nv3ms-bad">&times;</span><span>Weeks before you feel anything &mdash; if ever</span></div><div class="nv3ms-cell"><span class="nv3ms-icon nv3ms-bad">&times;</span><span>Rarely guaranteed</span></div></div></div></div></div></div>';
 
         var compSlider = '';
         compSlider += '<div class="nv3-mobile-slider" data-nv3-slider><div class="nv3ms-controls"><button class="nv3ms-arrow nv3ms-prev" type="button" aria-label="Previous comparison">&lsaquo;</button><div class="nv3ms-progress" aria-hidden="true"><span></span></div><button class="nv3ms-arrow nv3ms-next" type="button" aria-label="Next comparison">&rsaquo;</button></div>';
@@ -15766,7 +15766,7 @@ html body #nv-dr-intro .nv-dr-collagen-band .nv-dr-inline-figure, html body #nv-
         compSlider += '<div class="nv3ms-products"><div class="nv3ms-track"><div class="nv3ms-product-col is-primary"><div class="nv3ms-product-title">Cooling Roller</div><div class="nv3ms-cell"><span class="nv3ms-icon nv3ms-ok">&#10003;</span><span>Massage + menthol drive it in</span></div><div class="nv3ms-cell"><span class="nv3ms-icon nv3ms-ok">&#10003;</span><span>A difference you feel from the first roll</span></div><div class="nv3ms-cell"><span class="nv3ms-icon nv3ms-ok">&#10003;</span><span>Never touches your hands</span></div><div class="nv3ms-cell"><span class="nv3ms-icon nv3ms-ok">&#10003;</span><span>Pure botanical formula</span></div><div class="nv3ms-cell"><span class="nv3ms-icon nv3ms-ok">&#10003;</span><span>Botanical, made for nerve comfort</span></div><div class="nv3ms-cell"><span class="nv3ms-icon nv3ms-ok">&#10003;</span><span>90 days, no questions</span></div></div>';
         compSlider += '<div class="nv3ms-product-col"><div class="nv3ms-product-title">Magic Oils</div><div class="nv3ms-cell"><span class="nv3ms-icon nv3ms-bad">&times;</span><span>Takes forever to absorb</span></div><div class="nv3ms-cell"><span class="nv3ms-icon nv3ms-bad">&times;</span><span>Looks the same after 2 bottles</span></div><div class="nv3ms-cell"><span class="nv3ms-icon nv3ms-bad">&times;</span><span>Greasy hands, ruined sheets</span></div><div class="nv3ms-cell"><span class="nv3ms-icon nv3ms-bad">&times;</span><span>Cats ran from the smell</span></div><div class="nv3ms-cell"><span class="nv3ms-icon nv3ms-bad">&times;</span><span>Burned my skin... itch all over</span></div><div class="nv3ms-cell"><span class="nv3ms-icon nv3ms-bad">&times;</span><span>No returns once opened</span></div></div>';
         compSlider += '<div class="nv3ms-product-col"><div class="nv3ms-product-title">Miracle Creams</div><div class="nv3ms-cell"><span class="nv3ms-icon nv3ms-bad">&times;</span><span>Just any lotion</span></div><div class="nv3ms-cell"><span class="nv3ms-icon nv3ms-bad">&times;</span><span>6 months... no difference</span></div><div class="nv3ms-cell"><span class="nv3ms-icon nv3ms-bad">&times;</span><span>Gummy, thick &amp; sticky</span></div><div class="nv3ms-cell"><span class="nv3ms-icon nv3ms-bad">&times;</span><span>Even fragrance-free smells off</span></div><div class="nv3ms-cell"><span class="nv3ms-icon nv3ms-bad">&times;</span><span>Blistering rash down my arms</span></div><div class="nv3ms-cell"><span class="nv3ms-icon nv3ms-bad">&times;</span><span>Rarely guaranteed on results</span></div></div>';
-        compSlider += '<div class="nv3ms-product-col"><div class="nv3ms-product-title">Even Surgery</div><div class="nv3ms-cell"><span class="nv3ms-icon nv3ms-bad">&times;</span><span>Digested &mdash; only ~10% survives</span></div><div class="nv3ms-cell"><span class="nv3ms-icon nv3ms-bad">&times;</span><span>Goes wherever digestion sends it first</span></div><div class="nv3ms-cell"><span class="nv3ms-icon nv3ms-bad">&times;</span><span>Months of pills &mdash; feet still burning</span></div><div class="nv3ms-cell"><span class="nv3ms-icon nv3ms-bad">&times;</span><span>A chalky scoop to choke down daily</span></div><div class="nv3ms-cell"><span class="nv3ms-icon nv3ms-bad">&times;</span><span>Swallow it and just hope</span></div><div class="nv3ms-cell"><span class="nv3ms-icon nv3ms-bad">&times;</span><span>No refund on a year of nothing</span></div></div></div></div></div></div>';
+        compSlider += '<div class="nv3ms-product-col"><div class="nv3ms-product-title">Surgery</div><div class="nv3ms-cell"><span class="nv3ms-icon nv3ms-bad">&times;</span><span>Digested &mdash; only ~10% survives</span></div><div class="nv3ms-cell"><span class="nv3ms-icon nv3ms-bad">&times;</span><span>Goes wherever digestion sends it first</span></div><div class="nv3ms-cell"><span class="nv3ms-icon nv3ms-bad">&times;</span><span>Months of pills &mdash; feet still burning</span></div><div class="nv3ms-cell"><span class="nv3ms-icon nv3ms-bad">&times;</span><span>A chalky scoop to choke down daily</span></div><div class="nv3ms-cell"><span class="nv3ms-icon nv3ms-bad">&times;</span><span>Swallow it and just hope</span></div><div class="nv3ms-cell"><span class="nv3ms-icon nv3ms-bad">&times;</span><span>No refund on a year of nothing</span></div></div></div></div></div></div>';
         compHTML = compHTML.replace(/<div class="nv3-mobile-slider"[\s\S]*$/, compSlider);
 
         compTable.innerHTML = compHTML;
@@ -18972,14 +18972,14 @@ html body #cc-id-FhxaAgJDONFm.nv-step3-clean .nv-step3-clean__media-frame img {
     if (!headRow.querySelector('.nv3-head-product-powder')) {
       var label = document.createElement('div');
       label.className = 'nv3-head-label';
-      label.innerHTML = '<img class="nv3-head-product nv3-head-product-small nv3-head-product-powder" src="surgery-hq.png" alt="Even Surgery"><span>Even Surgery</span>';
+      label.innerHTML = '<img class="nv3-head-product nv3-head-product-small nv3-head-product-powder" src="surgery-hq.png" alt="Surgery"><span>Surgery</span>';
       headRow.appendChild(label);
     }
     var headLabels = headRow.querySelectorAll('.nv3-head-label span');
     if (headLabels[0]) headLabels[0].textContent = 'Comfort Balm';
     if (headLabels[1]) headLabels[1].textContent = 'Cortisone Shots';
     if (headLabels[2]) headLabels[2].textContent = 'Just Rest It';
-    if (headLabels[3]) headLabels[3].textContent = 'Even Surgery';
+    if (headLabels[3]) headLabels[3].textContent = 'Surgery';
 
     var colgroup = table.querySelector('colgroup');
     if (colgroup && colgroup.children.length < 5) {
@@ -18994,7 +18994,7 @@ html body #cc-id-FhxaAgJDONFm.nv-step3-clean .nv-step3-clean__media-frame img {
       return '<tr><th class="nv3-feature" scope="row">' + row[0] + '</th><td>' + okCell(row[1]) + '</td><td>' + badCell(row[2]) + '</td><td>' + badCell(row[3]) + '</td><td>' + badCell(row[4]) + '</td></tr>';
     }).join('');
 
-    table.setAttribute('aria-label', 'Comparison of Comfort Balm, Cortisone Shots, Just Rest It, and Even Surgery');
+    table.setAttribute('aria-label', 'Comparison of Comfort Balm, Cortisone Shots, Just Rest It, and Surgery');
   }
 
   function patchSlider(root) {
@@ -19014,7 +19014,7 @@ html body #cc-id-FhxaAgJDONFm.nv-step3-clean .nv-step3-clean__media-frame img {
       productCol('Comfort Balm', comparisonRows.map(function (row) { return mobileOkCell(row[1]); }), true) +
       productCol('Cortisone Shots', comparisonRows.map(function (row) { return mobileBadCell(row[2]); }), false) +
       productCol('Just Rest It', comparisonRows.map(function (row) { return mobileBadCell(row[3]); }), false) +
-      productCol('Even Surgery', comparisonRows.map(function (row) { return mobileBadCell(row[4]); }), false);
+      productCol('Surgery', comparisonRows.map(function (row) { return mobileBadCell(row[4]); }), false);
 
     var prev = slider.querySelector('.nv3ms-prev');
     var next = slider.querySelector('.nv3ms-next');
